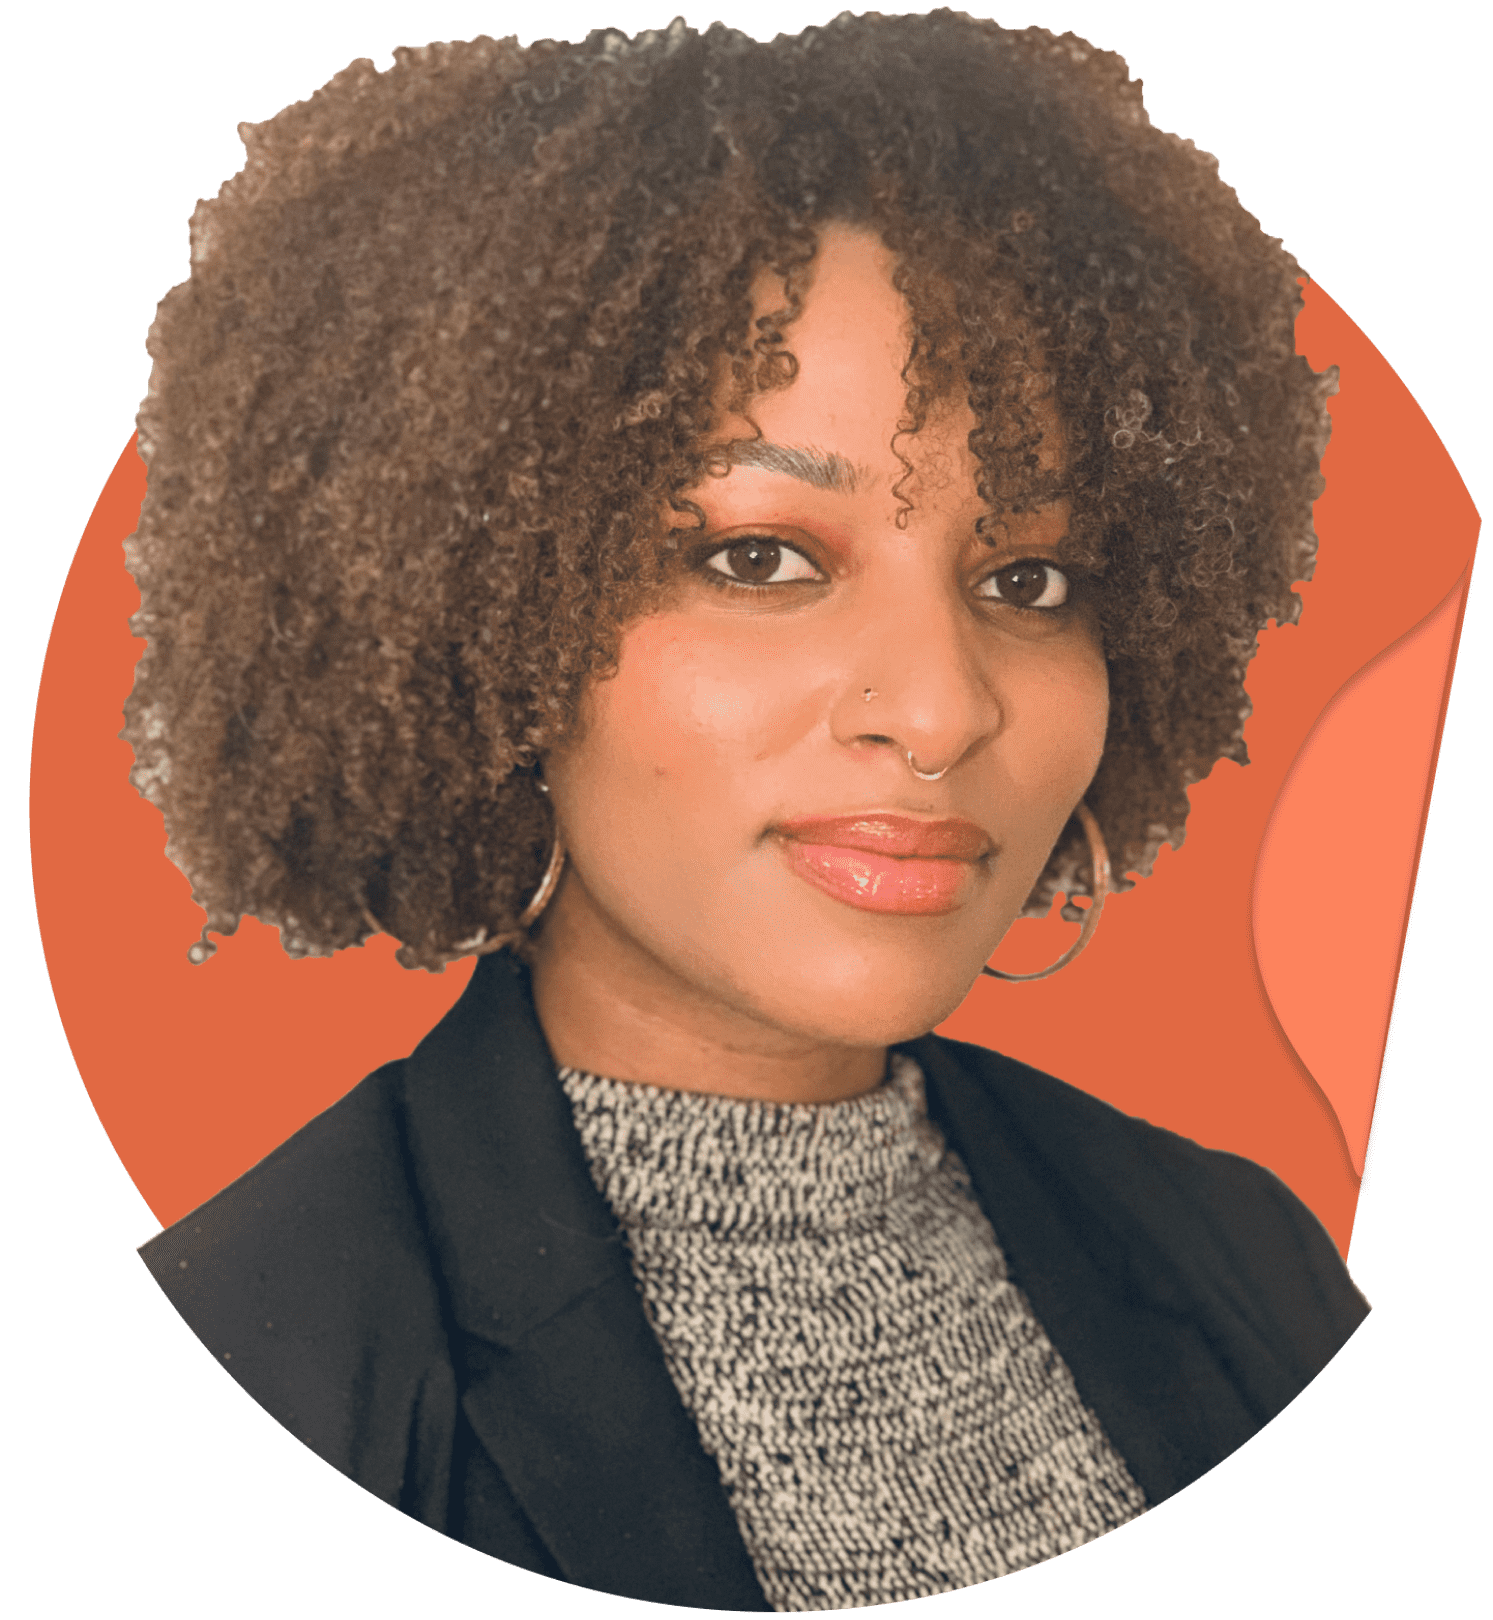
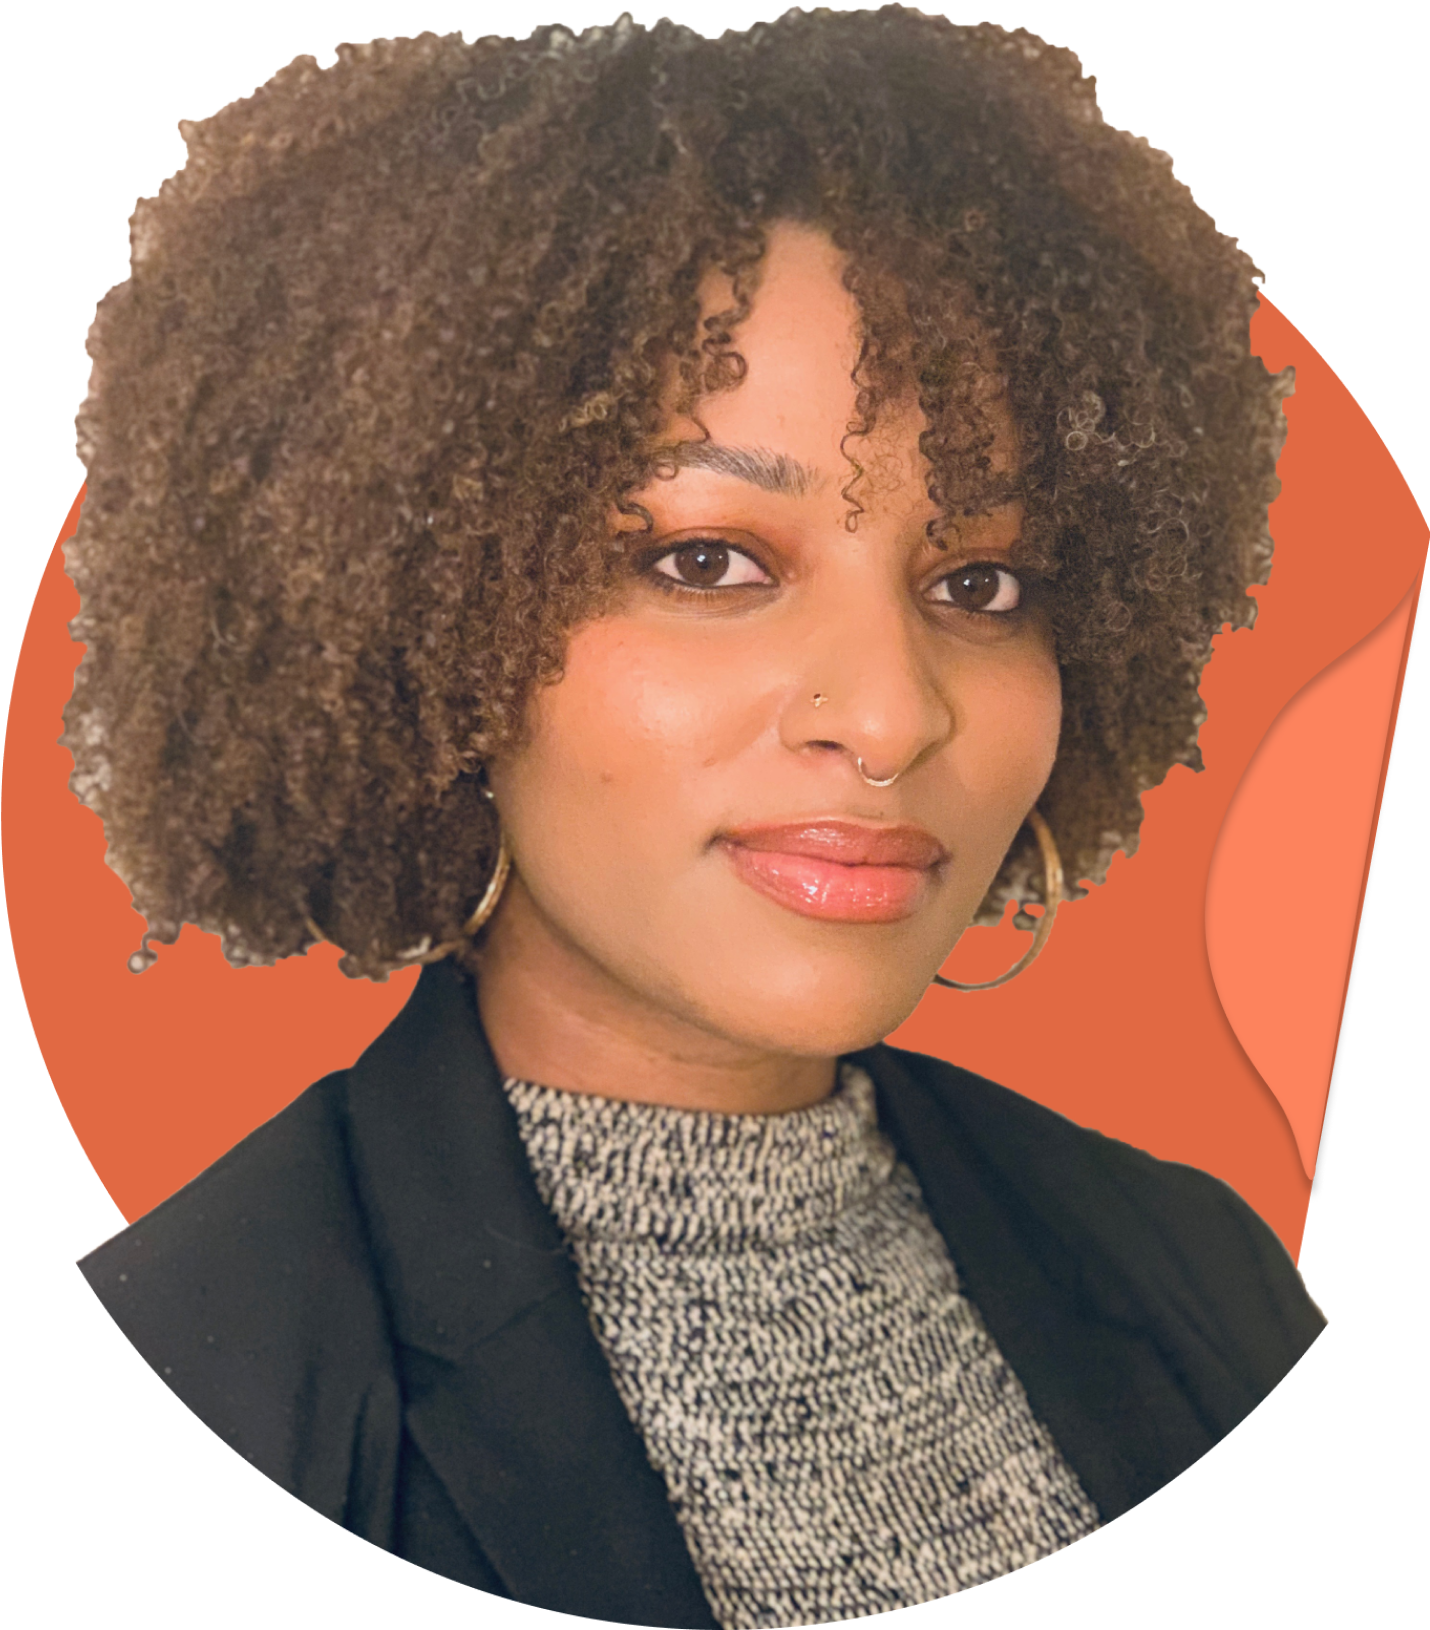
updated positive culture of error monster

diff --git a/src/_localDb/teamData.js b/src/_localDb/teamData.js
@@ -4,7 +4,8 @@ module.exports = {
       id: 1,
       name: 'Andy Li',
       variant: 'click',
-      photo: '/images/andy-sticker.png',
+      photo: '/images/andy-circle.png',
+      hover: '/images/andy-sticker.png',
       back: '/images/andy-back.png',
       title: '/images/andy-name.png',
       linkedIn: 'https://www.linkedin.com/in/andyzanli/'
@@ -13,7 +14,8 @@ module.exports = {
       id: 2,
       name: 'Anna Roberds',
       variant: 'click',
-      photo: '/images/anna-sticker.png',
+      photo: '/images/anna-circle.png',
+      hover: '/images/anna-sticker.png',
       back: '/images/anna-back.png',
       title: '/images/anna-name.png',
       linkedIn: 'https://www.linkedin.com/in/anna-roberds/'
@@ -22,7 +24,8 @@ module.exports = {
       id: 3,
       name: 'Daz C. Yang',
       variant: 'click',
-      photo: '/images/daz-sticker.png',
+      photo: '/images/daz-circle.png',
+      hover: '/images/daz-sticker.png',
       back: '/images/daz-back.png',
       title: '/images/daz-name.png',
       linkedIn: 'https://www.linkedin.com/in/dazyang'
@@ -31,7 +34,8 @@ module.exports = {
       id: 4,
       name: 'Edward Tan',
       variant: 'click',
-      photo: '/images/edward-sticker.png',
+      photo: '/images/edward-circle.png',
+      hover: '/images/edward-sticker.png',
       back: '/images/edward-back.png',
       title: '/images/edward-name.png',
       linkedIn: 'https://www.linkedin.com/in/edwardtan/'
@@ -40,7 +44,8 @@ module.exports = {
       id: 5,
       name: 'Eric Nguyen',
       variant: 'click',
-      photo: '/images/eric-sticker.png',
+      photo: '/images/eric-circle.png',
+      hover: '/images/eric-sticker.png',
       back: '/images/eric-back.png',
       title: '/images/eric-name.png',
       linkedIn: 'https://www.linkedin.com/in/eric-nguyen-a77977196/'
@@ -49,7 +54,8 @@ module.exports = {
       id: 6,
       name: 'Iman Howard',
       variant: 'click',
-      photo: '../images/iman-sticker.png',
+      photo: '../images/iman-circle.png',
+      hover: '/images/iman-sticker.png',
       back: '/images/iman-back.png',
       title: '/images/iman-name.png',
       linkedIn: 'https://www.linkedin.com/in/imanhoward/',
@@ -58,7 +64,8 @@ module.exports = {
       id: 7,
       name: 'Katerina Schenke, PhD',
       variant: 'click',
-      photo: '/images/katerina-sticker.png',
+      photo: '/images/katerina-circle.png',
+      hover: '/images/katerina-sticker.png',
       back: '/images/katerina-back.png',
       title: '/images/katerina-name.png',
       linkedIn: 'https://www.linkedin.com/in/katerina-schenke-phd-37b827b7/',
@@ -67,7 +74,8 @@ module.exports = {
       id: 8,
       name: 'Marizza Bailey',
       variant: 'click',
-      photo: '/images/marizza-sticker.png',
+      photo: '/images/marizza-circle.png',
+      hover: '/images/marizza-sticker.png',
       back: '/images/marizza-back.png',
       title: '/images/marizza-name.png',
       linkedIn: 'https://www.linkedin.com/in/marizza-bailey-5b981143',
@@ -76,7 +84,8 @@ module.exports = {
       id: 9,
       name: 'Mozzie Dosalmas, PhD',
       variant: 'click',
-      photo: '/images/mozzie-sticker.png',
+      photo: '/images/mozzie-circle.png',
+      hover: '/images/mozzie-sticker.png',
       back: '/images/mozzie-back.png',
       title: '/images/mozzie-name.png',
       linkedIn: 'https://www.linkedin.com/in/angela-dos-almas-506b7719/',
@@ -85,7 +94,8 @@ module.exports = {
       id: 10,
       name: 'Ronald Towns',
       variant: 'click',
-      photo: '/images/ronald-sticker.png',
+      photo: '/images/ronald-circle.png',
+      hover: '/images/ronald-sticker.png',
       back: '/images/ronald-back.png',
       title: '/images/ronald-name.png',
       linkedIn: 'https://www.linkedin.com/in/ronaldtowns/',
@@ -94,7 +104,8 @@ module.exports = {
       id: 11,
       name: 'Sinclair Wu',
       variant: 'click',
-      photo: '/images/sinclair-sticker.png',
+      photo: '/images/sinclair-circle.png',
+      hover: '/images/sinclair-sticker.png',
       back: '/images/sinclair-back.png',
       title: '/images/sinclair-name.png',
       linkedIn: 'https://www.linkedin.com/in/sinclairwu/',

diff --git a/src/components/atoms/ProfileFront.jsx b/src/components/atoms/ProfileFront.jsx
@@ -1,5 +1,6 @@
 import React from 'react'
 import { makeStyles } from "@material-ui/core/styles";
+import { useState } from "react";
 import { Grid } from "@material-ui/core";
 
 const useStyles = makeStyles({
@@ -11,37 +12,39 @@ const useStyles = makeStyles({
     // height: "300px",
     // margin: "20px 10px",
     //marginBottom: "10px",
-   
+
   },
 });
 
-function Front (props) {
-    const { photo, back, linkedIn, title } = props.profile;
-    const styles = useStyles();
-    return (
-        <div container className={styles.teamCards}>
-          <div>
-            <img
-              src={photo}
-              width="100%"
-              alt="right-on-education-team-member"
-            />
-          </div>
+function Front(props) {
+  const { photo, back, linkedIn, title, hover } = props.profile;
+  const styles = useStyles();
+  return (
+    <div>
+      <div container className={styles.teamCards}>
+        <div>
+          <img
+            src={photo}
+            width="100%"
+            alt="right-on-education-team-member"
+          />
+        </div>
         <div
           container
           alignItems="center"
           justify="center"
         >
           <a href={linkedIn} target='_blank' rel="noopener noreferrer">
-          <img
-            src={title}
-            width="100%"
-            alt="member-title"
-          />
+            <img
+              src={title}
+              width="100%"
+              alt="member-title"
+            />
           </a>
         </div>
-        </div>
-    );
+      </div>
+    </div>
+  );
 }
 
 export default Front;

diff --git a/src/teamPage.scss b/src/teamPage.scss
@@ -17,6 +17,14 @@
     display: none;
 }
 
+.team-stickers {
+    display: block
+}
+
+.team-stickers:hover {
+    display: none
+}
+
 @media screen and (max-width: 2000px) {
 
     .css-1f8sh1y {
